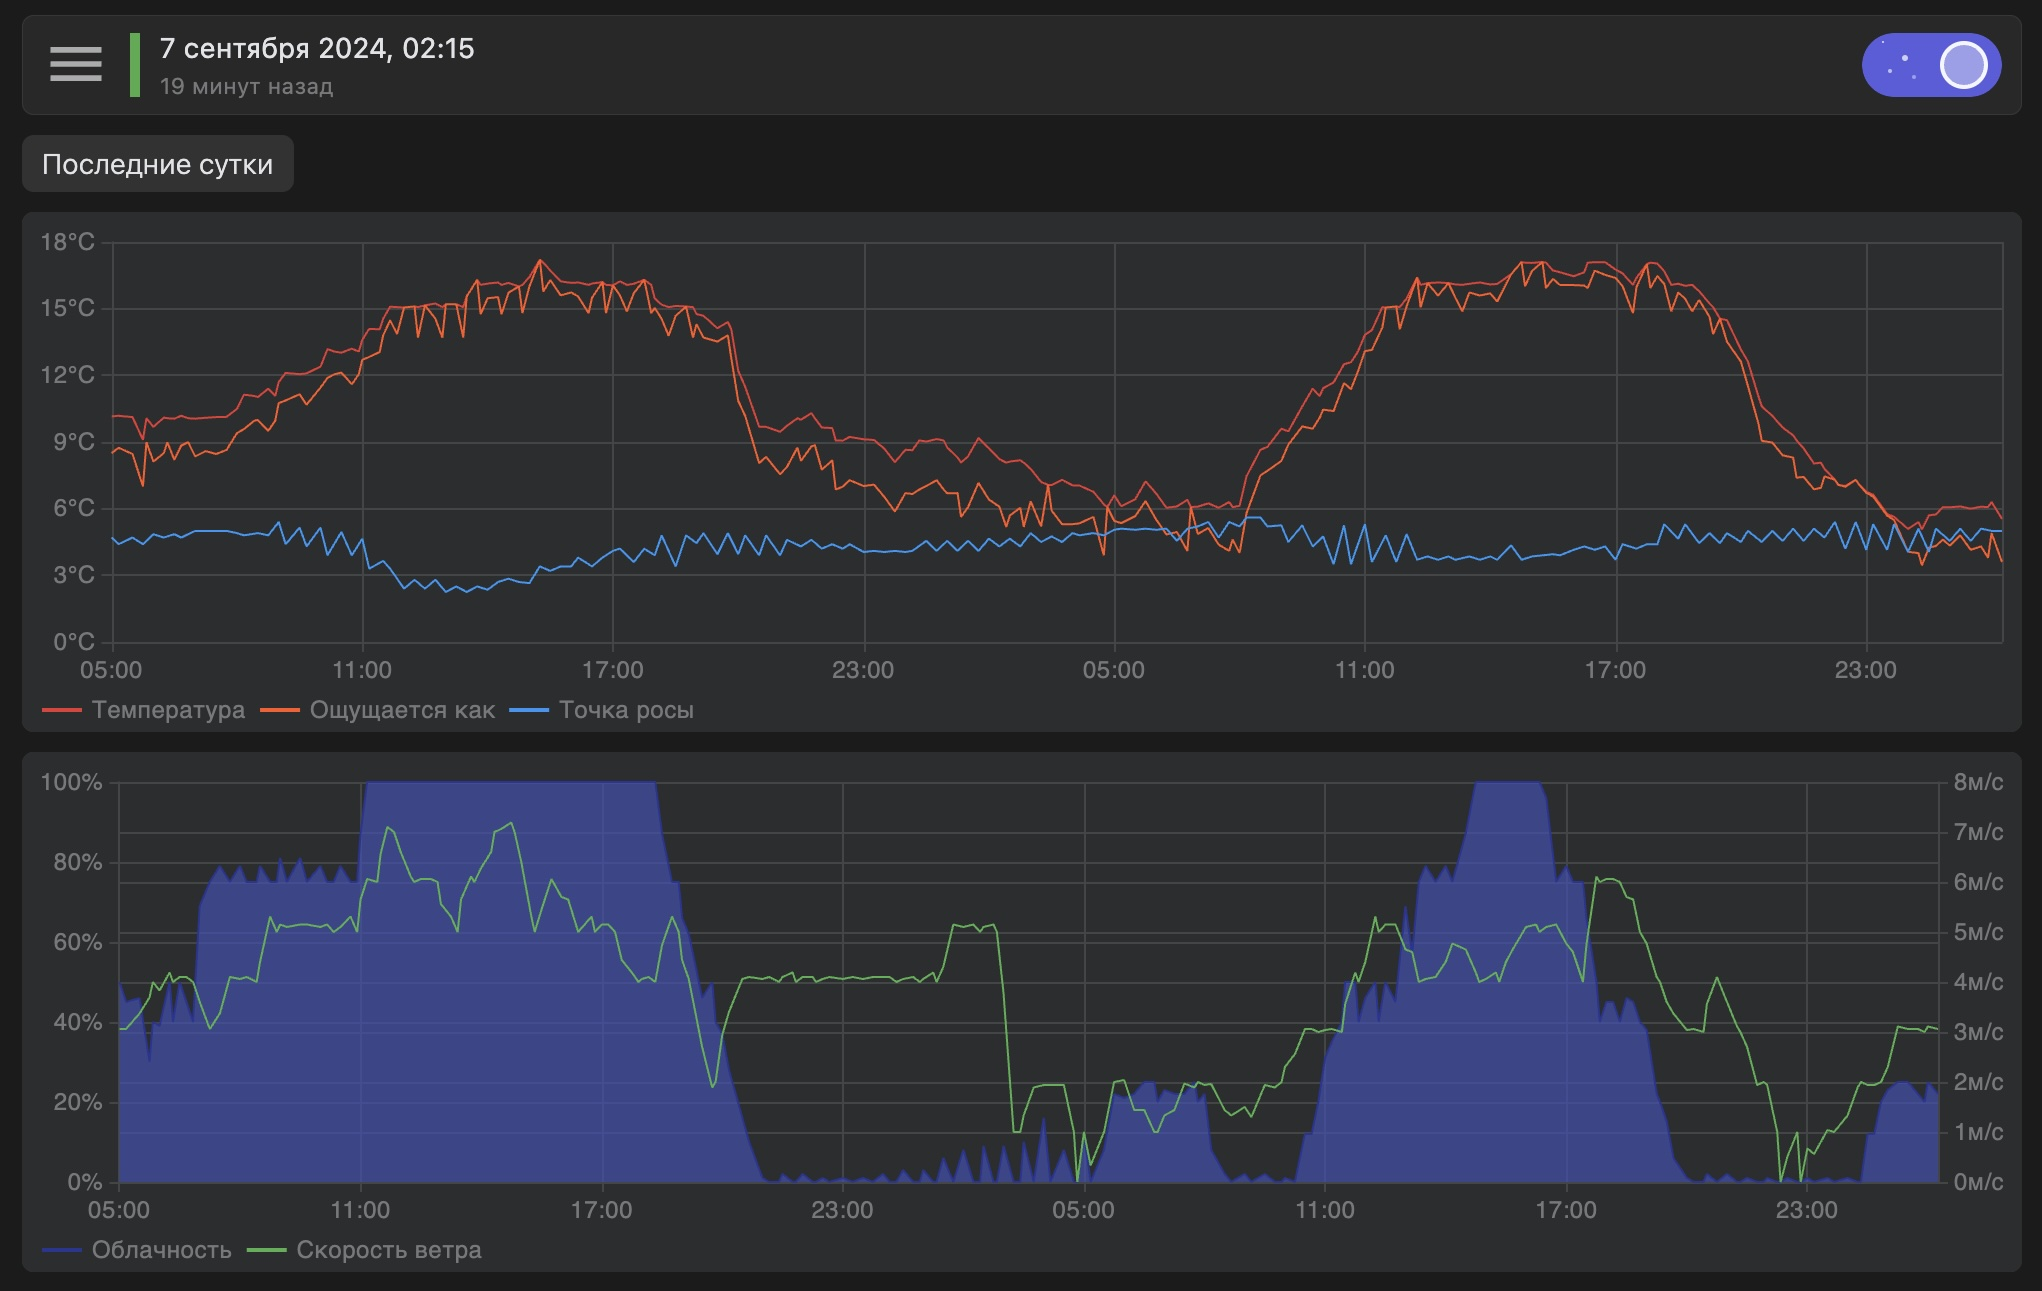
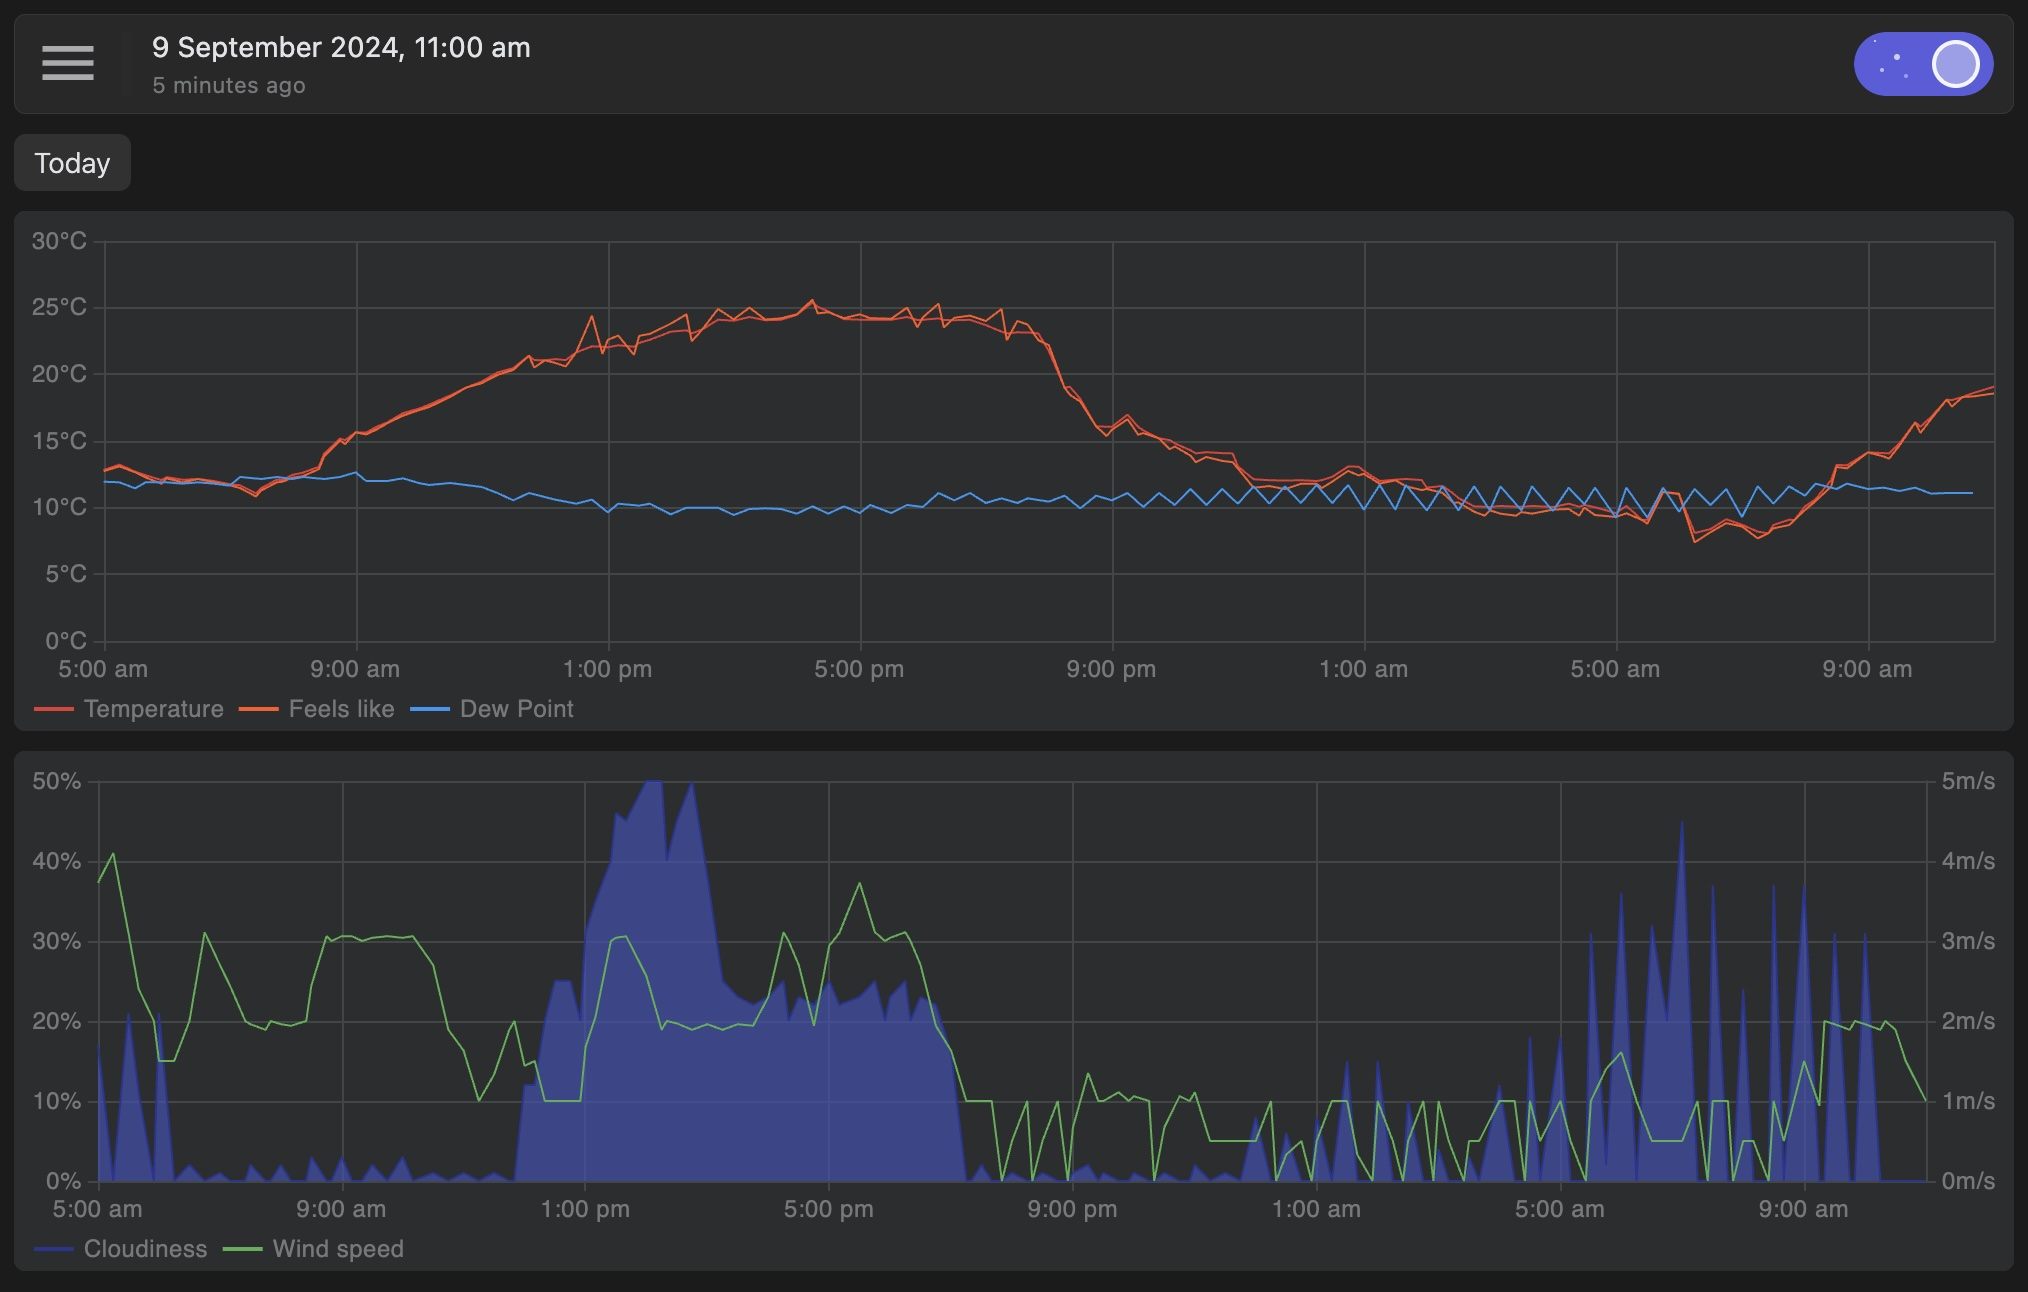
Replaced UI images, improved README

diff --git a/client/pages/history.tsx b/client/pages/history.tsx
@@ -67,9 +67,9 @@ const HistoryPage: NextPage<HistoryPageProps> = () => {
                     description: t('site-description'),
                     images: [
                         {
-                            height: 1291,
+                            height: 1292,
                             url: '/images/history.jpg',
-                            width: 2042
+                            width: 2028
                         }
                     ],
                     locale: i18n.language === 'ru' ? 'ru_RU' : 'en_US',

diff --git a/client/pages/sensors.tsx b/client/pages/sensors.tsx
@@ -126,9 +126,9 @@ const IndexPage: NextPage<IndexPageProps> = () => {
                     description: t('site-description'),
                     images: [
                         {
-                            height: 1640,
+                            height: 1484,
                             url: '/images/sensors.jpg',
-                            width: 2028
+                            width: 2032
                         }
                     ],
                     locale: i18n.language === 'ru' ? 'ru_RU' : 'en_US',

diff --git a/client/pages/index.tsx b/client/pages/index.tsx
@@ -187,7 +187,7 @@ const IndexPage: NextPage<IndexPageProps> = () => {
                         {
                             height: 1640,
                             url: '/images/main.jpg',
-                            width: 2024
+                            width: 2032
                         }
                     ],
                     locale: i18n.language === 'ru' ? 'ru_RU' : 'en_US',

diff --git a/arduino/README.md b/arduino/README.md
@@ -7,7 +7,7 @@
 - [Wiring Diagram](#wiring-diagram)
 - [Files](#files)
   - [`main.ino`](#mainino)
-  - [`get_sensor_dht22.ino`](#get_sensor_dht220ino)
+  - [`get_sensor_dht22.ino`](#get_sensor_dht22ino)
   - [`get_sensor_wind_direction.ino`](#get_sensor_wind_directionino)
   - [`get_sensor_luxmeter.ino`](#get_sensor_luxmeterino)
   - [`get_sensor_pressure.ino`](#get_sensor_pressureino)
@@ -16,11 +16,11 @@
 - [Setup](#setup)
 - [Usage](#usage)
   - [Debugging](#debugging)
-- [Auxiliary Files](#auxiliary-files)
   - [`i2c_scanner.ino`](#i2c_scannerino)
   - [`test_gyml8511.ino`](#test_gyml8511ino)
   - [`test_interput.ino`](#test_interputino)
   - [`test_pcf8574.ino`](#test_pcf8574ino)
+- [Notes](#notes)
 
 ## Overview
 
@@ -51,7 +51,7 @@ Sensors are connected to the Arduino as follows:
 
 ## Files
 
-### `main.ino`[README.md](..%2FREADME.md)
+### `main.ino`
 
 The main file that initializes the sensors, manages the main loop, and sends data to the web server. It includes:
 
@@ -118,13 +118,13 @@ Handles sending collected sensor data to the web server. It includes:
 
 The weather station will periodically collect data from all sensors and send it to the specified web server. The data is sent every 60 seconds, as defined by `SEND_DATA_INTERVAL` in `main.ino`.
 
-### Debugging
+## Debugging
 
 - **Serial Monitor**: Enable the debug messages by uncommenting the `#define DEBUG` line in `main.ino`. This will print sensor readings and status messages to the Serial Monitor.
 
 In additional directories you can find auxiliary files for debugging and testing electronic components:
 
-#### 1. `i2c_scanner.ino`
+### 1. `i2c_scanner.ino`
 
 **Purpose:**  
 This sketch scans the I2C bus for connected devices and prints their addresses to the Serial Monitor. It helps in identifying the addresses of I2C devices connected to the Arduino.
@@ -140,7 +140,7 @@ This sketch scans the I2C bus for connected devices and prints their addresses t
 - `Wire.beginTransmission(address)` and `Wire.endTransmission()`: Test each address for an I2C device.
 - Addresses from `0x01` to `0x7F` are scanned.
 
-#### 2. `test_gyml8511.ino`
+### 2. `test_gyml8511.ino`
 
 **Purpose:**  
 This sketch reads data from an MP8511 UV sensor and calculates UV intensity. It prints the sensor's output voltage and UV intensity to the Serial Monitor.
@@ -156,7 +156,7 @@ This sketch reads data from an MP8511 UV sensor and calculates UV intensity. It 
 - `mapfloat(x, in_min, in_max, out_min, out_max)`: Maps a float value from one range to another.
 - UV intensity is calculated based on the sensor's output voltage.
 
-#### 3. `test_interput.ino`
+### 3. `test_interput.ino`
 
 **Purpose:**  
 This sketch measures RPM (Revolutions Per Minute) using a Hall effect sensor and an interrupt. It prints the time elapsed and RPM to the Serial Monitor.
@@ -172,7 +172,7 @@ This sketch measures RPM (Revolutions Per Minute) using a Hall effect sensor and
 - `addValue()`: Increment the pulse count.
 - RPM is calculated based on the time elapsed and number of pulses.
 
-#### 4. `test_pcf8574.ino`
+### 4. `test_pcf8574.ino`
 
 **Purpose:**  
 This sketch reads inputs from a PCF8574 I/O expander and displays the wind direction based on the digital input values.
@@ -188,7 +188,7 @@ This sketch reads inputs from a PCF8574 I/O expander and displays the wind direc
 - `expander.digitalRead(i)`: Reads the state of each pin.
 - The wind direction is derived from the digital input values.
 
-####Notes
+## Notes
 
 - Ensure the correct board and port are selected in the Arduino IDE before uploading the sketches.
 - Adjust pin numbers and I2C addresses in the sketches as needed for your specific hardware configuration.

diff --git a/README.md b/README.md
@@ -67,8 +67,6 @@ The Arduino Weather Station is an advanced, automated weather monitoring system 
 - **Data Visualization:** Users can view live graphs of parameters such as temperature, humidity, pressure, and more, along with detailed statistics for selected time frames.
 - **API Integration:** The backend provides an API for developers to access weather data for integration into external applications.
 
-![Arduino Weather Station](./docs/models.jpg)
-
 ### Measured Parameters:
 - Temperature
 - Feels like temperature
@@ -214,6 +212,8 @@ cd arduino-weather-station
 - **Wind Vane**: Measures wind direction
 
 All models for 3D printing can be found in the `models` directory.
+
+![Arduino Weather Station](./docs/models.jpg)
 
 ### 5. Accessing the Application
 
